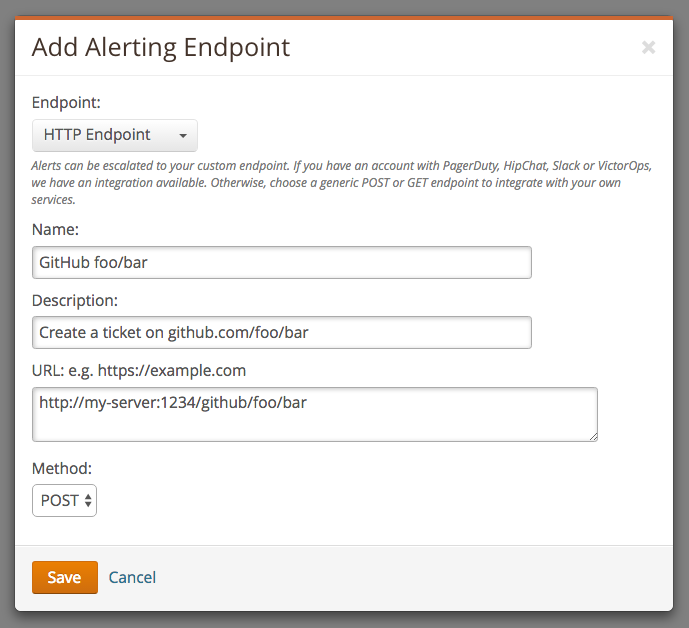
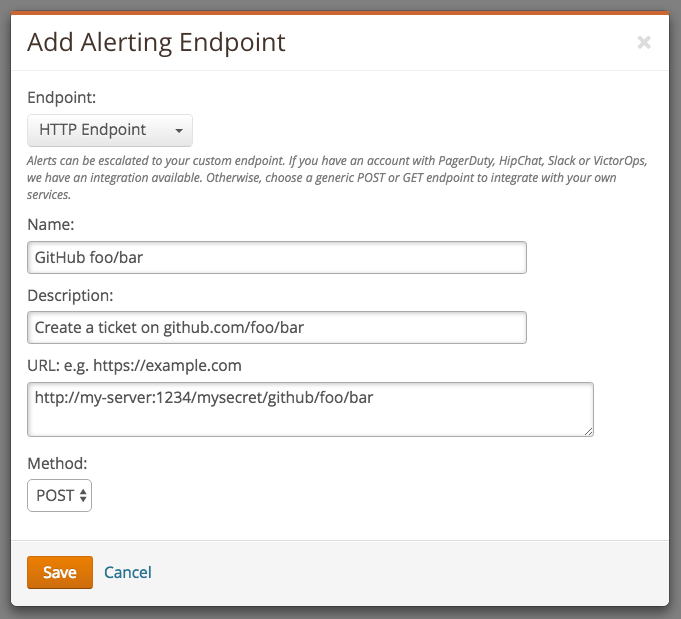
Introduce an API secret

Changed region(s): [[0.0, 0.0, 0.9868, 0.9822]]

diff --git a/test/server.js b/test/server.js
@@ -10,7 +10,7 @@ describe('server', function() {
   var server, handler;
   beforeEach(function() {
     handler = sinon.createStubInstance(HandlerAbstract);
-    server = startServer(1234, handler);
+    server = startServer(1234, 'my-secret', handler);
   });
   afterEach(function(done) {
     server.close(done);
@@ -21,7 +21,7 @@ describe('server', function() {
     var payload = {'alert_name': alert.name, 'search_link': alert.searchLink, 'recent_hits': alert.recentHits};
 
     request(server)
-      .post('/github/foo/bar?assignee=bob')
+      .post('/my-secret/github/foo/bar?assignee=bob')
       .send(JSON.stringify(payload))
       .set('Content-Type', 'text/plain; charset=ISO-8859-1')
       .set('User-Agent', 'Apache-HttpClient/4.3.2 (java 1.5)')
@@ -36,7 +36,7 @@ describe('server', function() {
     var payload = {'alert_name': 'my-name', 'alert_description': 'my-desc'};
 
     request(server)
-      .post('/github/foo/bar')
+      .post('/my-secret/github/foo/bar')
       .send('something invalid')
       .set('Content-Type', 'text/plain; charset=ISO-8859-1')
       .expect(500)
@@ -45,7 +45,7 @@ describe('server', function() {
 
   it('errors on GET', function(done) {
     request(server)
-      .get('/github/foo/bar')
+      .get('/my-secret/github/foo/bar')
       .expect(404, done);
   });
 

diff --git a/src/server.js b/src/server.js
@@ -5,14 +5,15 @@ var Alert = require('./alert');
 
 /**
  * @param {Number} port
+ * @param {String} secret
  * @param {HandlerAbstract} handler
  * @return {http.Server}
  */
-var startServer = function(port, handler) {
+var startServer = function(port, secret, handler) {
   var app = express();
   app.use(bodyParser.text());
 
-  app.post('/github/:user/:repo', function(req, res) {
+  app.post('/' + secret + '/github/:user/:repo', function(req, res) {
     try {
       var data = JSON.parse(req.body);
       var alert = new Alert(data['alert_name'], data['search_link'], data['recent_hits']);

diff --git a/src/config.js b/src/config.js
@@ -30,6 +30,7 @@ Config.prototype.validate = function(data) {
     "type": "object",
     "properties": {
       "port": {"type": "integer", "minimum": 1},
+      "secret": {"type": "string", "pattern": "^[A-Za-z0-9\-]+$"},
       "github": {
         "type": "object",
         "properties": {
@@ -38,7 +39,7 @@ Config.prototype.validate = function(data) {
         "required": ["token"]
       }
     },
-    "required": ["port", "github"]
+    "required": ["port", "secret", "github"]
   };
   validator.validate(data, schema, {throwError: true});
 };

diff --git a/test/config.js b/test/config.js
@@ -13,6 +13,7 @@ describe('config', function() {
   it('reads, parses and returns a valid config', function() {
     var data = {
       port: 1234,
+      secret: 'my-secret',
       github: {
         token: 'foo'
       }

diff --git a/README.md b/README.md
@@ -20,6 +20,7 @@ npm install -g loggly-github
 ```json
 {
   "port": "<HTTP port to listen on>",
+  "secret": "<Any alphanumeric API secret>"
   "github": {
     "token": "<GitHub access token>"
   }
@@ -35,8 +36,9 @@ loggly-github --config <path-to-config-file>
 ### Create a new *alerting endpoint* in Loggly
 Configure the endpoint in *Loggly* to send a POST request to the *loggly-github* server:
 ```
-http://my-server:1234/github/<github-user>/<github-repo>?assignee=<assignee>
+http://my-server:1234/<secret>/github/<github-user>/<github-repo>?assignee=<assignee>
 ```
+- `secret` (required): The *secret* as defined in your configuration
 - `github-user`/`github-repo` (required): GitHub repo where the ticket is created
 - `assignee` (optional): GitHub user to assign the ticket to
 
